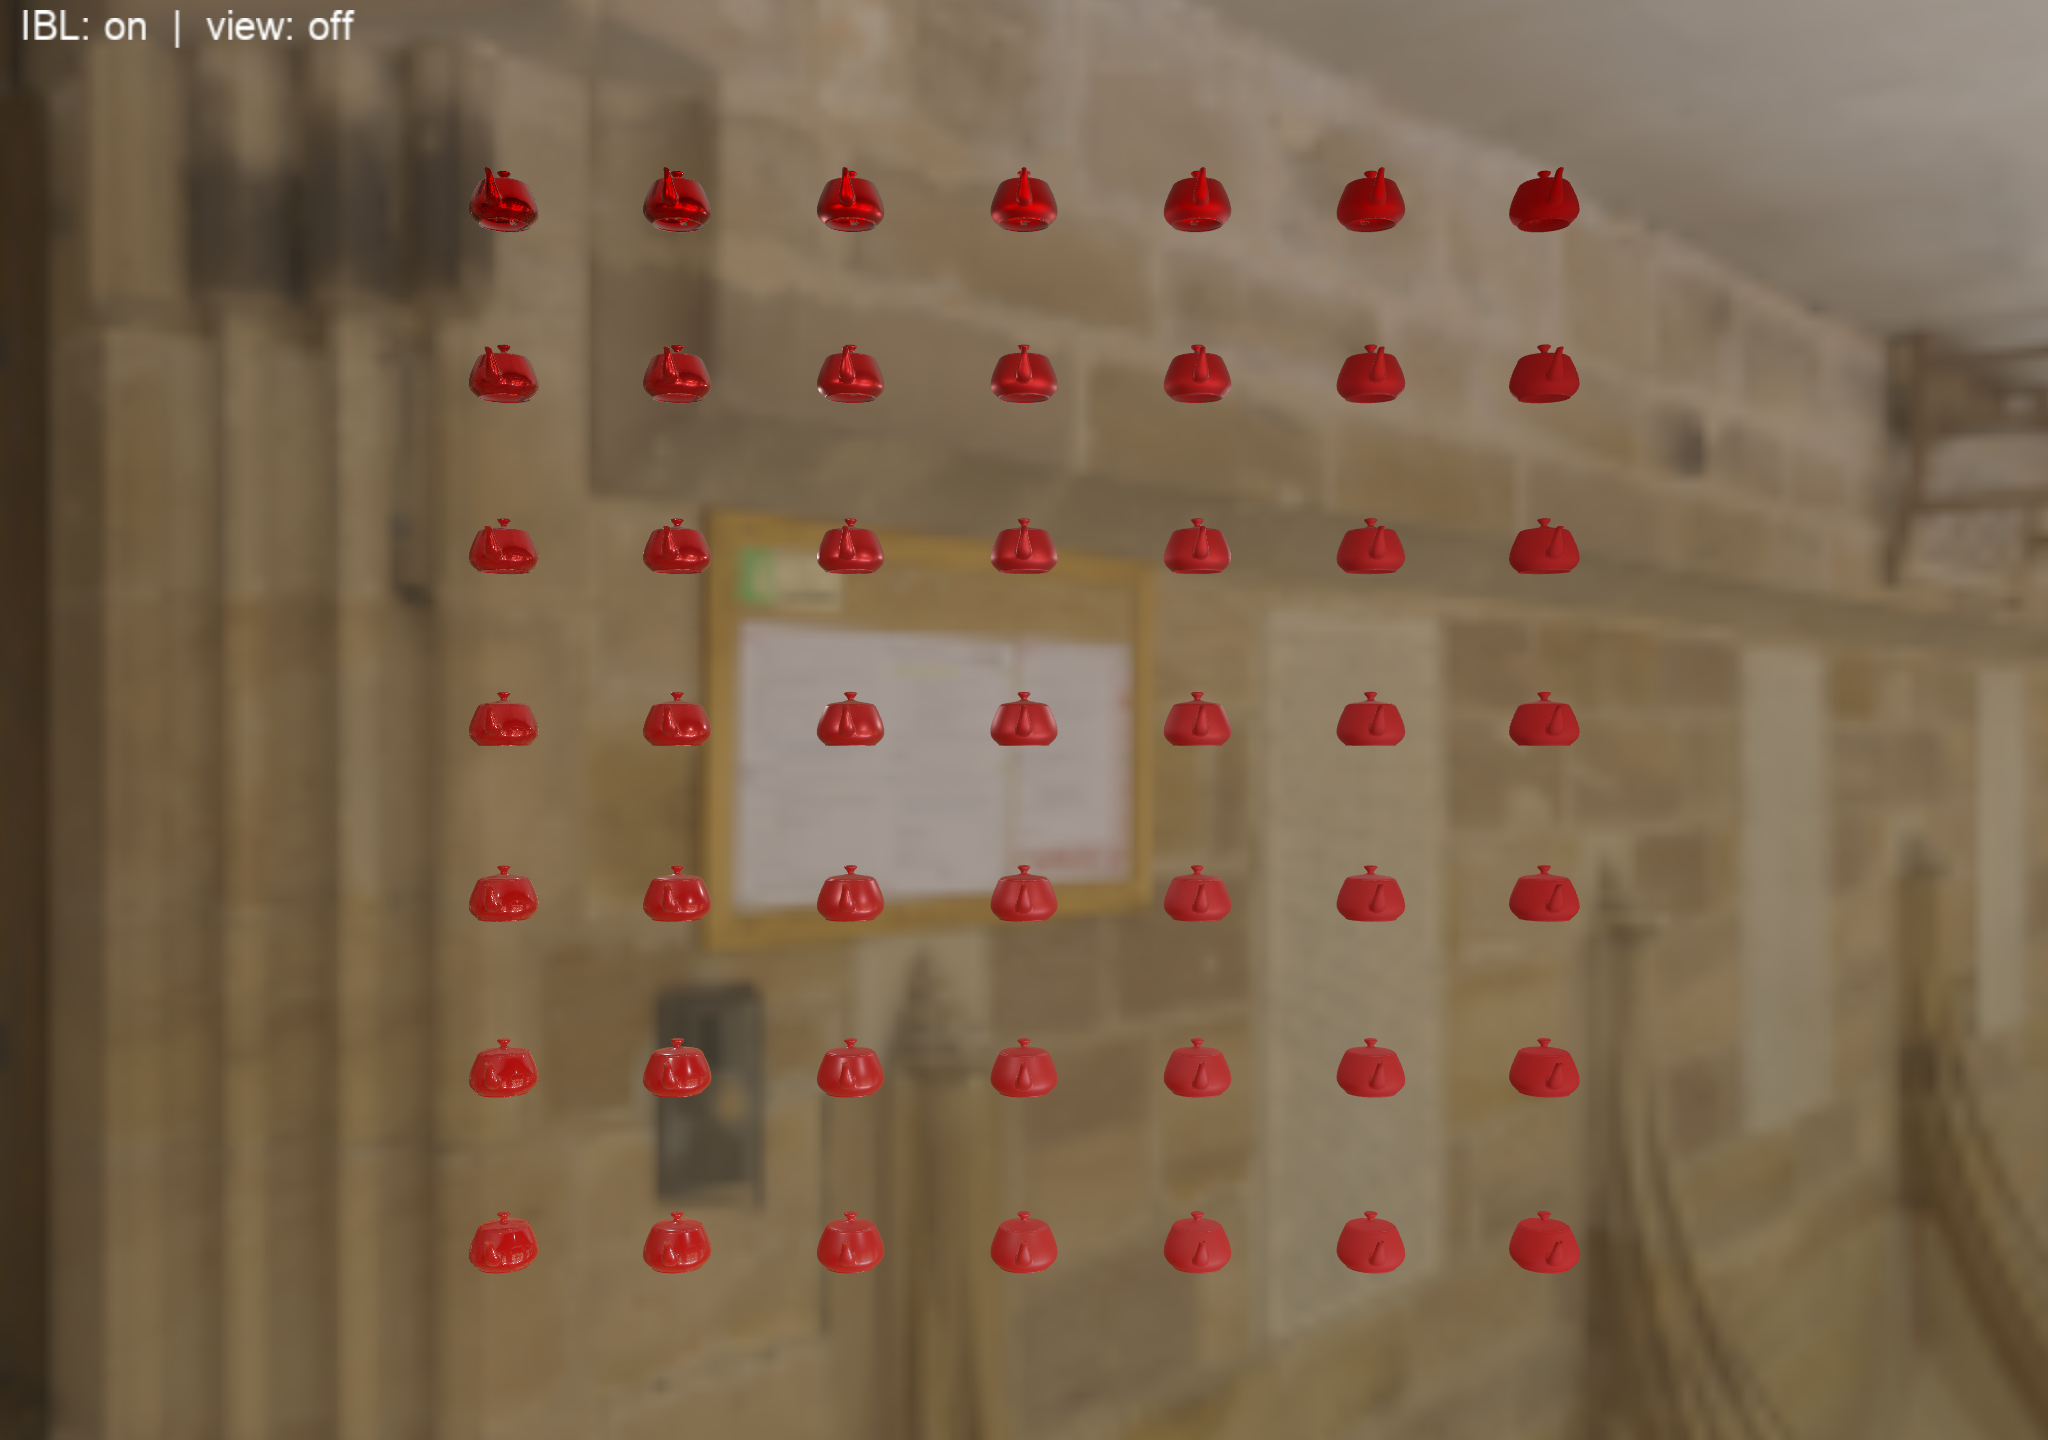
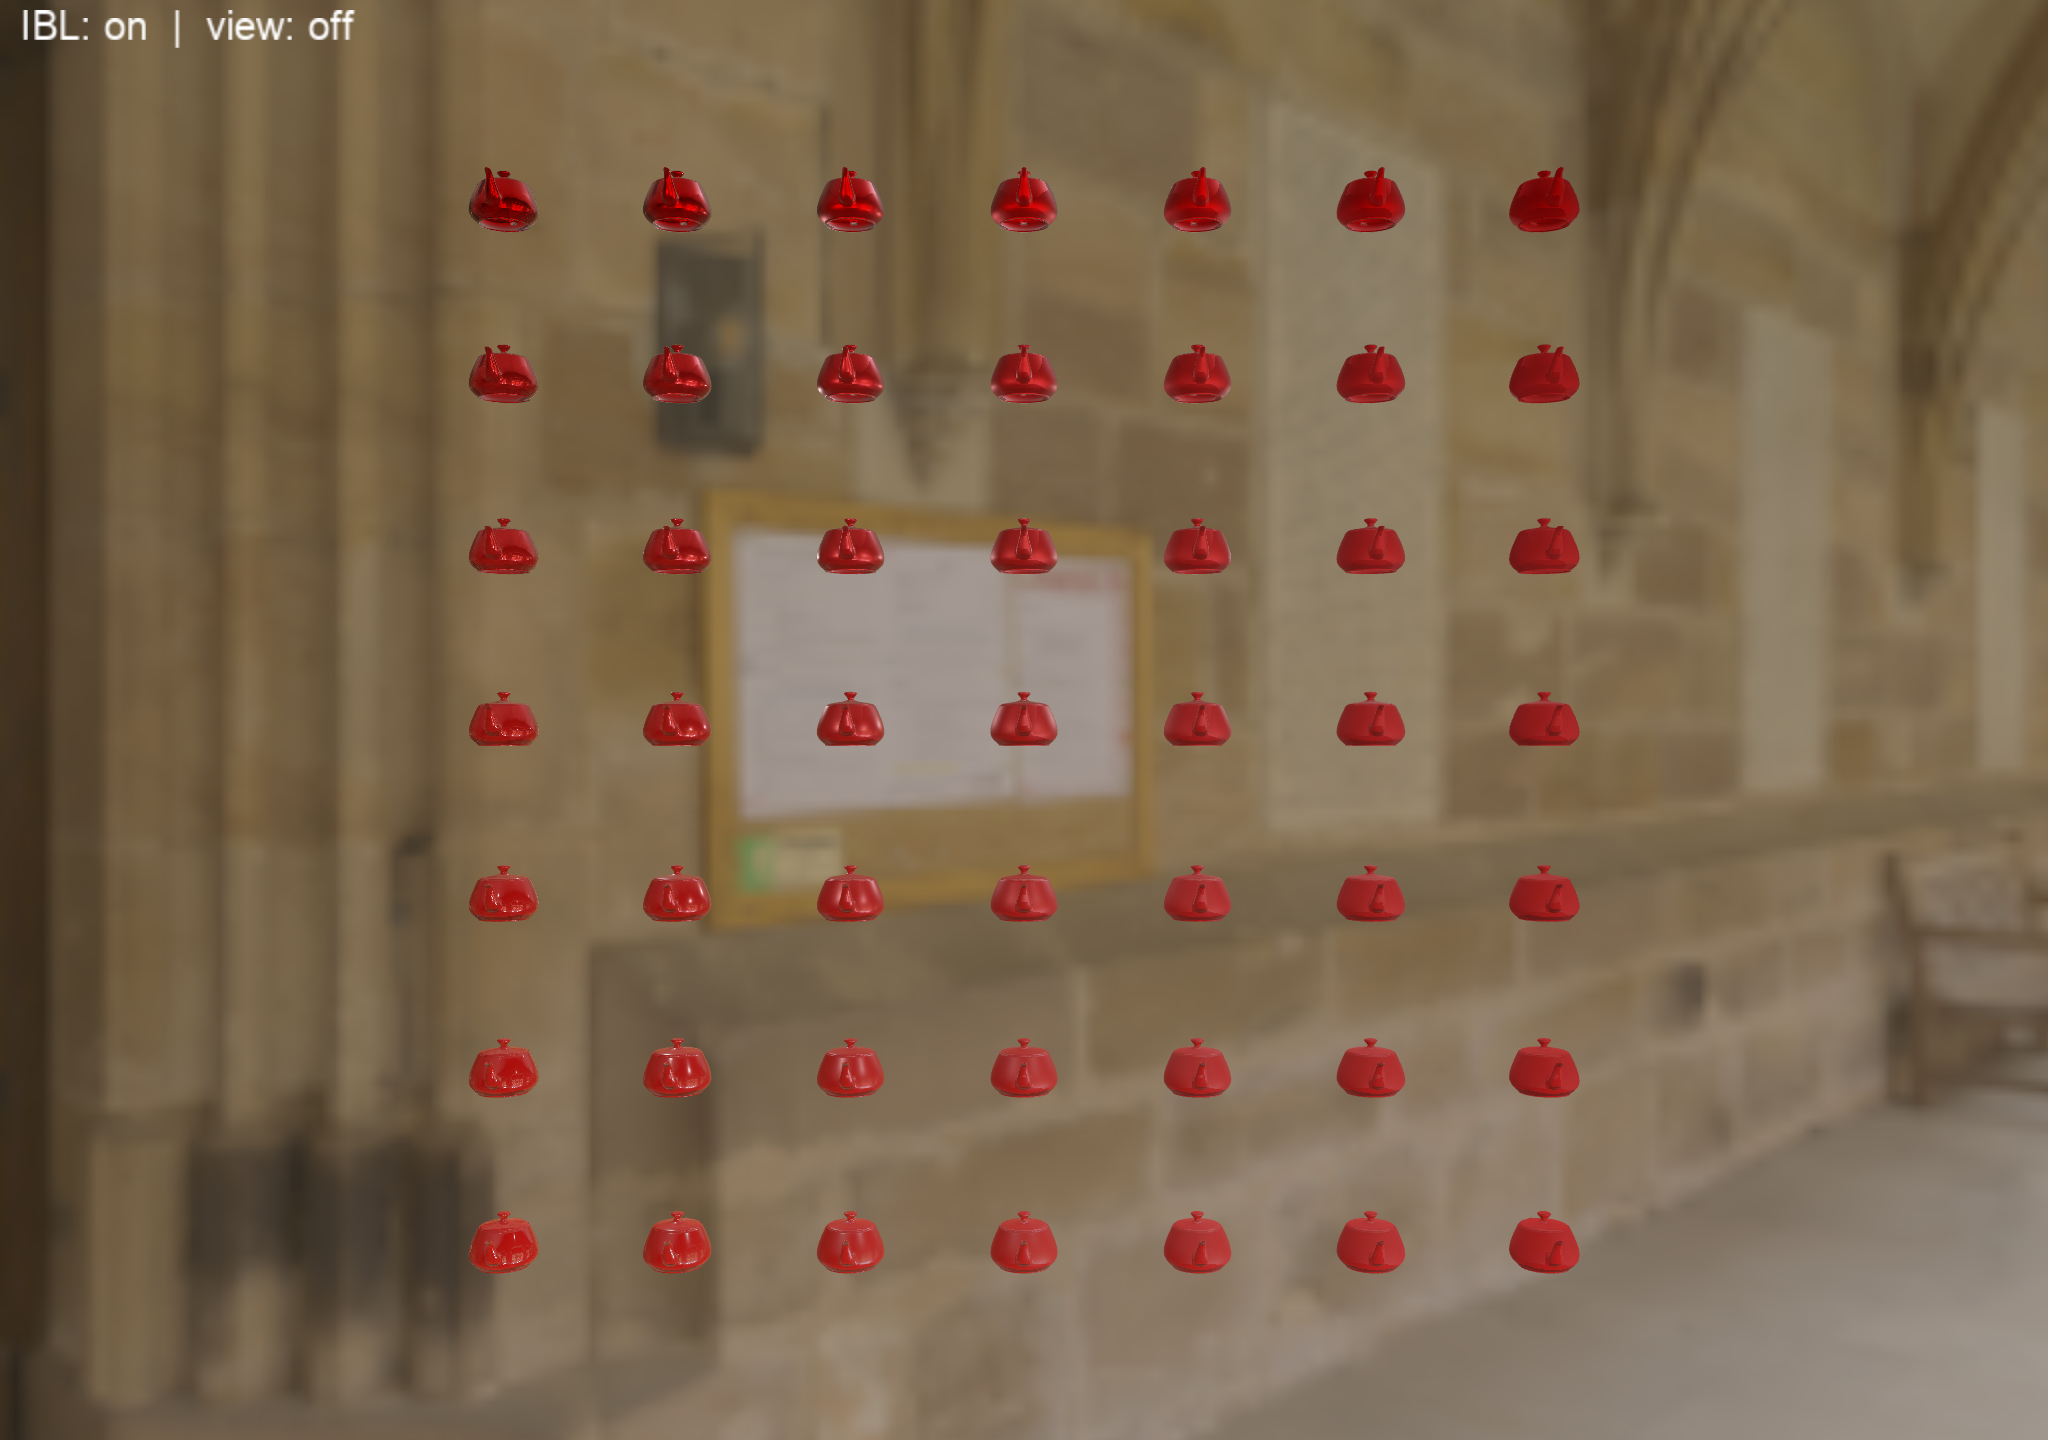
fix(hdri): flip OpenGL cubemap bake to match WebGPU orientation
OpenGL's render-to-cubemap FBO is bottom-left origin while WebGPU's render
target is top-left, so the baked environment came out vertically flipped
between the two demos (skybox and reflections upside down in OpenGL). Negate
clip-space Y in the capture projection to compensate. Re-captured HDRI.png.

diff --git a/PBR/HDRI/main.py b/PBR/HDRI/main.py
@@ -49,6 +49,12 @@ DEBUG_VIEWS = ("off", "irradiance", "prefilter mip 2", "brdf lut")
 # The six view matrices that look out the six cube faces from the origin
 # (LearnOpenGL "Diffuse irradiance"). Order matches GL_TEXTURE_CUBE_MAP_POSITIVE_X..+5.
 _CAPTURE_PROJECTION = perspective(90.0, 1.0, 0.1, 10.0)
+# OpenGL's render-to-cubemap FBO has a bottom-left origin, so the baked faces
+# come out vertically flipped relative to the WebGPU demo (whose render target
+# is top-left) even though both share the same capture views. Negate clip-space
+# Y in the capture projection to compensate, so the skybox and reflections
+# match the WebGPU version rather than appearing upside down.
+_CAPTURE_PROJECTION[1, 1] *= -1.0
 _CAPTURE_VIEWS = [
     look_at(Vec3(0, 0, 0), Vec3(1, 0, 0), Vec3(0, -1, 0)),
     look_at(Vec3(0, 0, 0), Vec3(-1, 0, 0), Vec3(0, -1, 0)),
